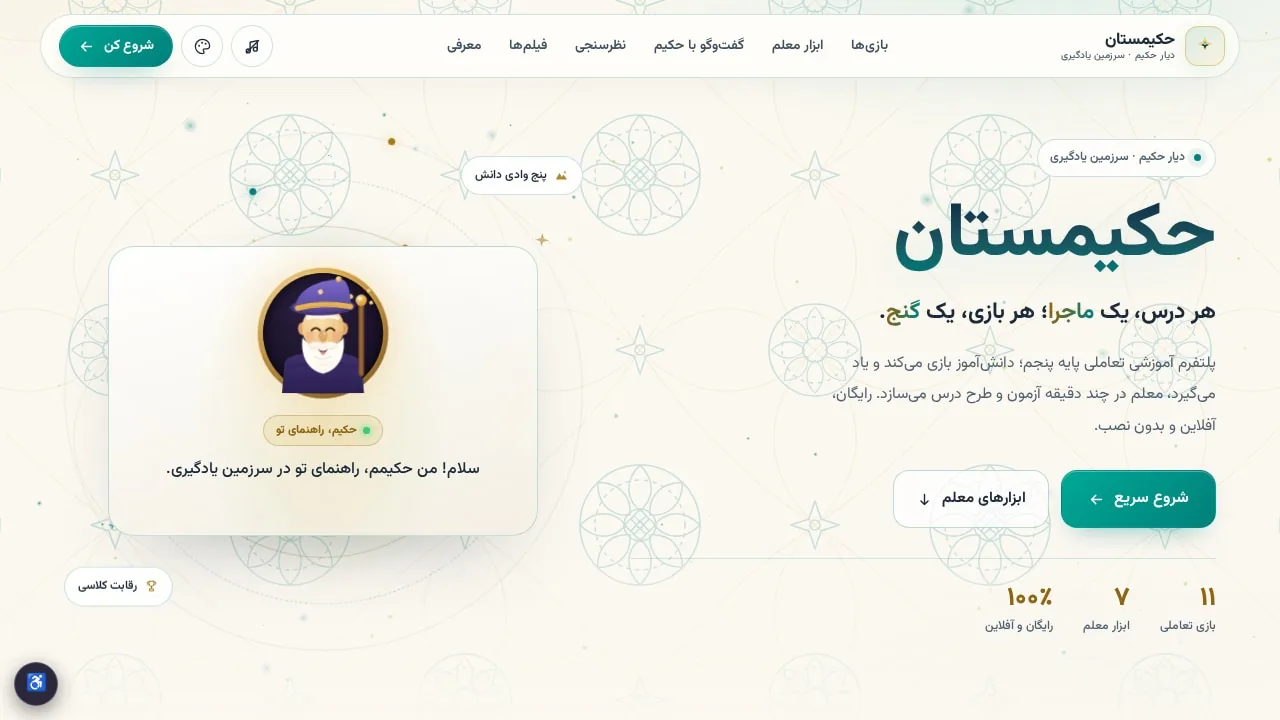
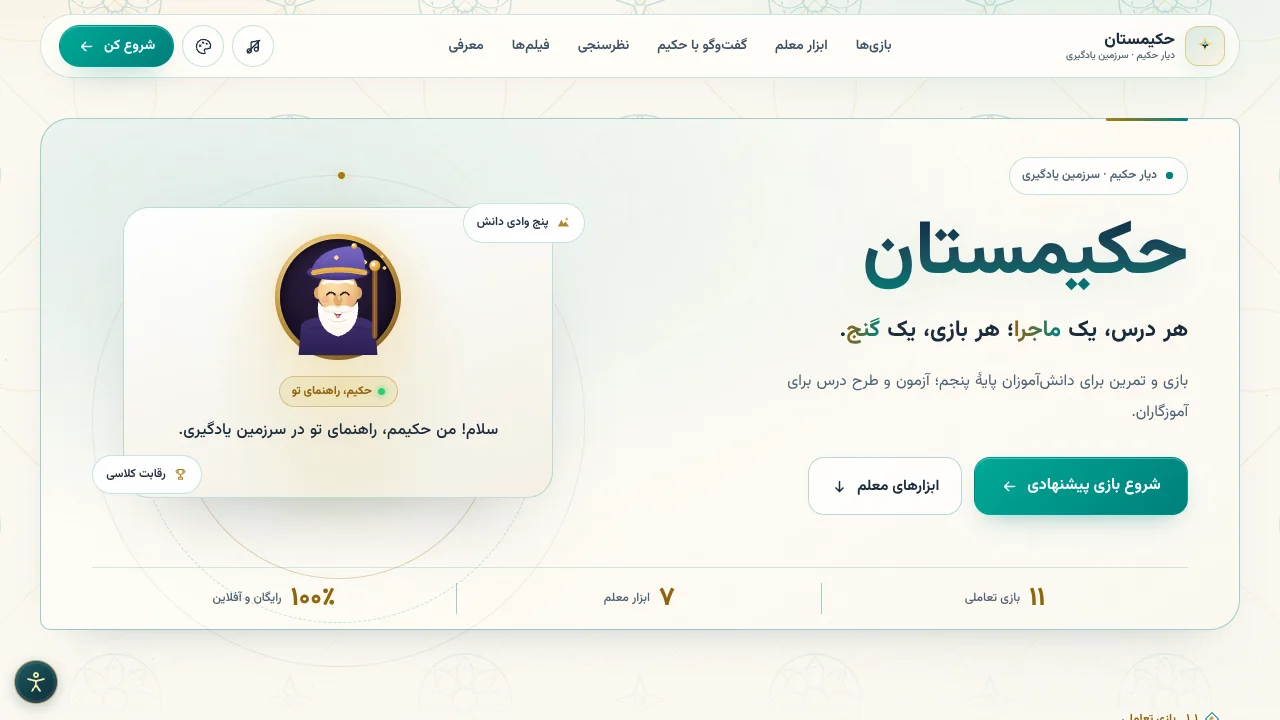
Redesign project introduction and refresh its visual tour

diff --git a/judges.html b/judges.html
@@ -418,6 +418,7 @@ body[data-theme="kashi"] .shot-empty{ border-color:rgba(0,128,128,.32); }
 <meta name="twitter:image" content="https://hakimistan.ir/screenshots/og-cover.jpg">
 <!-- hakim-meta:end -->
 <link rel="stylesheet" href="css/folio.css">
+<link rel="stylesheet" href="css/project-story.css">
 </head>
 <body data-theme="kashi">
 
@@ -492,15 +493,16 @@ body[data-theme="kashi"] .shot-empty{ border-color:rgba(0,128,128,.32); }
 <main id="main">
 
   <!-- ================= قهرمان فشرده ================= -->
-  <section class="page-hero" aria-labelledby="hero-title">
-    <div class="wrap">
-      <p class="eyebrow"><span class="pulse" aria-hidden="true"></span> برای داوران جشنواره</p>
-      <div class="hero-logo" aria-hidden="true">ح</div>
-      <p class="hk-folio">شناسنامهٔ حکیمستان</p>
-      <h1 id="hero-title">معرفی پروژه حکیمستان</h1>
-      <p class="hero-tagline">حکیمستان — <em>دیار حکیم</em>، سرزمین یادگیری</p>
+  <section class="story-cover" aria-labelledby="hero-title">
+    <div class="cover-copy">
+      <p class="cover-kicker">پروندهٔ آموزشی · پایهٔ پنجم دبستان</p>
+      <h1 id="hero-title">معرفی تفصیلی <span>حکیمستان</span></h1>
+      <p>از یک سؤال در کلاس تا یک سرزمین بازی؛ ببینید دانشآموز کجا تمرین میکند و معلم چطور مسیر یادگیری را دنبال میکند.</p>
+      <a class="cover-action" href="#tour">دیدن محیطهای یادگیری ←</a>
     </div>
+    <figure class="cover-screen"><img src="screenshots/lobby.webp" width="1280" height="720" alt="نمای فعلی لابی حکیمستان با راهنمای حکیم" fetchpriority="high"><figcaption>نمای ۰۱ <span>لابی · نقطهٔ شروع دانشآموز</span></figcaption></figure>
   </section>
+  <nav class="story-index" aria-label="فهرست معرفی تفصیلی"><b>در این معرفی</b><a href="#origin">داستان شکلگیری</a><a href="#tour">تور تصویری</a><a href="#lessons">درسها و بازیها</a><a href="#school">مدرسهٔ ریاضی</a><a href="#technology">مشخصات فنی</a></nav>
 
   <div class="wrap-sections">
 
@@ -515,26 +517,60 @@ body[data-theme="kashi"] .shot-empty{ border-color:rgba(0,128,128,.32); }
 
   <!-- ۲. این پروژه چیه؟ -->
   <section class="hk-card reveal">
-    <h2 class="section-title">📖 این پروژه چیه؟</h2>
-    <p>«حکیمستان» یک سامانهی آموزشی تعاملی بر پایهی HTML است که شامل <strong>۱۷ بازی آموزشی</strong>، <strong>۷ ابزار</strong> (آزمونساز، دفتر معلم، کارگاه طرح درس، مبدل سؤال، پیامرسان کلاسی، پنل معلم و درسگاه) و گفتوگو با دستیار هوشمند <strong>«حکیم»</strong> است؛ همراه با بیش از <strong>۸۰ سؤال آماده</strong> و <strong>۲۷ فیلم معرفی</strong>.</p>
+    <h2 class="section-title">حکیمستان در یک نگاه</h2>
+    <p>«حکیمستان» یک سامانهی آموزشی تعاملی بر پایهی HTML است که شامل <strong>۱۷ بازی آموزشی</strong>، <strong>۷ ابزار</strong> (آزمونساز، دفتر معلم، کارگاه طرح درس، مبدل سؤال، پیامرسان کلاسی، پنل معلم و درسگاه) و گفتوگو با دستیار هوشمند <strong>«حکیم»</strong> است؛ همراه با بیش از <strong>۸۰ سؤال آماده</strong> و <strong>۱۶ فیلم منتشرشده</strong>.</p>
     <p>این سامانه برای پایه پنجم ابتدایی طراحی شده و هدفش این است که مفاهیم درسی از طریق بازی، یادگیری فعال و بازخورد فوری به دانشآموز منتقل شود.</p>
     <p>تمام محتوا با HTML، CSS و JavaScript خالص ساخته شده و بهصورت PWA روی هر مرورگر و هر دستگاهی (موبایل، تبلت، رایانه) بدون نیاز به نصب اجرا میشود.</p>
     <p>همهٔ صفحههای اصلی — لابی، فیلمها و همین صفحهٔ معرفی — روی یک <strong>هویت بصری واحد</strong> به نام «کاشی» (کرم روشن، فیروزه و طلا، با نقش اسلیمی) ساخته شدهاند و تم انتخابی کاربر (<strong>کاشی، اقیانوس یا صبح فیروزه</strong>) بهصورت مشترک در همهٔ صفحهها باقی میماند.</p>
 
-    <!-- اسکرینشات لابی -->
-    <figure class="shot">
-      <picture>
-        <source srcset="screenshots/lobby.webp" type="image/webp">
-        <img src="screenshots/lobby.jpg" alt="نمای لابی حکیمستان در تم کاشی — حکیم در قهرمان صفحه و کارتهای بازیها"
-             width="1280" height="720" loading="lazy" decoding="async"
-             onerror="var f=this.closest('figure');if(f)f.classList.add('shot-empty');this.remove();">
-      </picture>
-      <figcaption>لابی حکیمستان — صفحهی اصلی سامانه</figcaption>
-    </figure>
+  </section>
+
+  <section id="tour" class="hk-card reveal">
+    <h2 class="section-title">تور تصویری حکیمستان</h2>
+    <p>از تماشای یک معرفی کوتاه شروع کنید یا مستقیم وارد یکی از محیطهای یادگیری شوید.</p>
+    <div class="gallery">
+      <figure class="shot cinema-shot">
+        <picture>
+          <source srcset="screenshots/videos-page.webp" type="image/webp">
+          <img src="screenshots/videos-page.jpg" alt="سرصفحهٔ خانهٔ فیلم حکیمستان و مسیرهای تماشای فیلم"
+               width="1280" height="720" loading="lazy" decoding="async"
+               onerror="var f=this.closest('figure');if(f)f.classList.add('shot-empty');this.remove();">
+        </picture>
+        <figcaption><a href="videos.html">خانهٔ فیلم ←</a> · ۹ معرفی بازی و ۷ معرفی ابزار</figcaption>
+      </figure>
+      <figure class="shot school-shot"><img src="screenshots/school.webp" alt="صفحهٔ ورودی مدرسهٔ ریاضی پایهٔ پنجم" width="1280" height="720" loading="lazy" decoding="async"><figcaption><a href="math-learning.html">مدرسهٔ ریاضی ←</a> · هفت بازی پایهٔ پنجم</figcaption></figure>
+      <figure class="shot">
+        <picture>
+          <source srcset="screenshots/mancheh.webp" type="image/webp">
+          <img src="screenshots/mancheh.jpg" alt="نمای بازی منچِ دانش آنلاین روی صفحهٔ بازی"
+               width="1280" height="720" loading="lazy" decoding="async"
+               onerror="var f=this.closest('figure');if(f)f.classList.add('shot-empty');this.remove();">
+        </picture>
+        <figcaption>منچِ دانش آنلاین</figcaption>
+      </figure>
+      <figure class="shot">
+        <picture>
+          <source srcset="screenshots/lab.webp" type="image/webp">
+          <img src="screenshots/lab.jpg" alt="نمای آزمایشگاه دوبعدی علوم با ابزارهای آزمایش"
+               width="1280" height="720" loading="lazy" decoding="async"
+               onerror="var f=this.closest('figure');if(f)f.classList.add('shot-empty');this.remove();">
+        </picture>
+        <figcaption>آزمایشگاه ۲بعدی</figcaption>
+      </figure>
+      <figure class="shot">
+        <picture>
+          <source srcset="screenshots/teacher-panel.webp" type="image/webp">
+          <img src="screenshots/teacher-panel.jpg" alt="نمای پنل معلم با آمار کلاس و فهرست دانشآموزان"
+               width="1280" height="720" loading="lazy" decoding="async"
+               onerror="var f=this.closest('figure');if(f)f.classList.add('shot-empty');this.remove();">
+        </picture>
+        <figcaption>پنل معلم</figcaption>
+      </figure>
+    </div>
   </section>
 
   <!-- ۳. مسیر شکلگیری -->
-  <section class="hk-card reveal">
+  <section id="origin" class="hk-card reveal">
     <h2 class="section-title">📜 مسیر شکلگیری</h2>
     <div class="timeline">
       <div class="tl-item">
@@ -551,8 +587,8 @@ body[data-theme="kashi"] .shot-empty{ border-color:rgba(0,128,128,.32); }
   </section>
 
   <!-- ۴. برای کدوم درسها؟ -->
-  <section class="hk-card reveal">
-    <h2 class="section-title">📚 برای کدوم درسها؟</h2>
+  <section id="lessons" class="hk-card reveal">
+    <h2 class="section-title">📚 راهنمای درسها و بازیها</h2>
 
     <h3 class="sub-heading">بازیها</h3>
     <div class="table-wrap" tabindex="0">
@@ -715,7 +751,7 @@ body[data-theme="kashi"] .shot-empty{ border-color:rgba(0,128,128,.32); }
   </section>
 
   <!-- ۴ب. مدرسه ریاضی -->
-  <section class="hk-card reveal">
+  <section id="school" class="hk-card reveal">
     <h2 class="section-title">🧮 مدرسه ریاضی</h2>
     <p>«<a href="math-learning.html">مدرسه ریاضی</a>» بخش ویژهی ریاضی حکیمستان است؛ مجموعهای در حال رشد از بازیهای آموزشی ریاضی پایهٔ پنجم. اکنون <strong>هفت بازی</strong> دارد: از تقسیم و ساعت تا الگوهای هندسی و عددی، کسرها با چهار عمل، نسبت و درصد، تقارن و چندضلعی، و عددهای اعشاری. هر بازی یک کارت اختصاصی در صفحهٔ مدرسه دارد.</p>
     <p><strong>هفت بازی فعلی:</strong></p>
@@ -766,48 +802,7 @@ body[data-theme="kashi"] .shot-empty{ border-color:rgba(0,128,128,.32); }
   </section>
 
   <!-- ۶ب. نماها -->
-  <section class="hk-card reveal">
-    <h2 class="section-title">🖼 نماها</h2>
-    <p>نمایی از محیط حکیمستان:</p>
-    <div class="gallery">
-      <figure class="shot">
-        <picture>
-          <source srcset="screenshots/videos-page.webp" type="image/webp">
-          <img src="screenshots/videos-page.jpg" alt="نمای صفحهٔ فیلمهای حکیمستان با کارتهای ویدیویی شیشهای در تم کاشی"
-               width="1280" height="720" loading="lazy" decoding="async"
-               onerror="var f=this.closest('figure');if(f)f.classList.add('shot-empty');this.remove();">
-        </picture>
-        <figcaption>صفحهٔ فیلمها — ۲۷ ویدیوی معرفی بازیها و ابزارها</figcaption>
-      </figure>
-      <figure class="shot">
-        <picture>
-          <source srcset="screenshots/mancheh.webp" type="image/webp">
-          <img src="screenshots/mancheh.jpg" alt="نمای بازی منچِ دانش آنلاین روی صفحهٔ بازی"
-               width="1280" height="720" loading="lazy" decoding="async"
-               onerror="var f=this.closest('figure');if(f)f.classList.add('shot-empty');this.remove();">
-        </picture>
-        <figcaption>منچِ دانش آنلاین</figcaption>
-      </figure>
-      <figure class="shot">
-        <picture>
-          <source srcset="screenshots/lab.webp" type="image/webp">
-          <img src="screenshots/lab.jpg" alt="نمای آزمایشگاه دوبعدی علوم با ابزارهای آزمایش"
-               width="1280" height="720" loading="lazy" decoding="async"
-               onerror="var f=this.closest('figure');if(f)f.classList.add('shot-empty');this.remove();">
-        </picture>
-        <figcaption>آزمایشگاه ۲بعدی</figcaption>
-      </figure>
-      <figure class="shot">
-        <picture>
-          <source srcset="screenshots/teacher-panel.webp" type="image/webp">
-          <img src="screenshots/teacher-panel.jpg" alt="نمای پنل معلم با آمار کلاس و فهرست دانشآموزان"
-               width="1280" height="720" loading="lazy" decoding="async"
-               onerror="var f=this.closest('figure');if(f)f.classList.add('shot-empty');this.remove();">
-        </picture>
-        <figcaption>پنل معلم</figcaption>
-      </figure>
-    </div>
-  </section>
+
 
   <!-- ۷. پیامرسان کلاسی حکیمستان -->
   <section class="hk-card reveal">
@@ -850,19 +845,19 @@ body[data-theme="kashi"] .shot-empty{ border-color:rgba(0,128,128,.32); }
   </section>
 
   <!-- ۱۰. ویژگیهای فنی -->
-  <section class="hk-card reveal">
+  <section id="technology" class="hk-card reveal">
     <h2 class="section-title">🛠 ویژگیهای فنی</h2>
     <div class="tech-grid">
       <div class="tech-item"><span class="num">۱۷</span><span class="label">بازی تعاملی</span></div>
       <div class="tech-item"><span class="num">۷</span><span class="label">ابزار معلم و دانشآموز</span></div>
       <div class="tech-item"><span class="num">۳</span><span class="label">تم رنگی هماهنگ در همهٔ صفحهها</span></div>
       <div class="tech-item"><span class="num">۸۰+</span><span class="label">سؤال آماده</span></div>
-      <div class="tech-item"><span class="num">۲۷</span><span class="label">فیلم معرفی بازیها و ابزارها</span></div>
+      <div class="tech-item"><span class="num">۱۶</span><span class="label">فیلم منتشرشده · ۱۱ عنوان علوم در برنامه</span></div>
       <div class="tech-item"><span class="num">PWA</span><span class="label">قابل نصب بدون فروشگاه</span></div>
       <div class="tech-item"><span class="num">AI</span><span class="label">گفتوگو با حکیم</span></div>
       <div class="tech-item"><span class="num">🎨</span><span class="label">هویت بصری یکپارچه — کاشی</span></div>
       <div class="tech-item"><span class="num">HTML</span><span class="label">پایهی فنی — بدون فریمورک</span></div>
-      <div class="tech-item"><span class="num">a11y</span><span class="label">دسترسپذیری WCAG 2.2 AA</span></div>
+      <div class="tech-item"><span class="num">a11y</span><span class="label">تنظیمات دسترسپذیری</span></div>
       <div class="tech-item"><span class="num">📱</span><span class="label">موبایلپسند و واکنشگرا</span></div>
       <div class="tech-item"><span class="num">👨🏫</span><span class="label">طراحیشده توسط معلم پایه پنجم</span></div>
     </div>

diff --git a/css/project-story.css b/css/project-story.css
@@ -1,0 +1,9 @@
+/* Editorial cover and photographic tour, scoped to the project dossier. */
+.story-cover,.story-index,.wrap-sections{width:min(calc(100% - 32px),1100px);margin-inline:auto;box-sizing:border-box}
+.story-cover{isolation:isolate;position:relative;overflow:hidden;margin-block:32px 12px;border-radius:30px;background:radial-gradient(ellipse at 4% 0%,#296965,transparent 58%),#123c3e;color:#fffbef;display:grid;grid-template-columns:.9fr 1.1fr;align-items:center;gap:clamp(24px,4vw,64px);padding:clamp(24px,5vw,64px);box-shadow:0 16px 44px #143c3822}
+.story-cover:before{content:"";position:absolute;z-index:-1;inset:0;background:repeating-linear-gradient(45deg,transparent 0 29px,#ffffff09 29px 30px),repeating-linear-gradient(-45deg,transparent 0 29px,#ffffff09 29px 30px);mask-image:linear-gradient(100deg,#000,transparent)}
+.cover-kicker{color:#f7d38d;font-size:.82rem;font-weight:800}.cover-copy h1{font-size:clamp(2rem,4vw,3.8rem);line-height:1.3;margin:.35em 0}.cover-copy h1 span{display:block;color:#ffe1a2}.cover-copy>p:not(.cover-kicker){line-height:2;color:#f4f6ec}.cover-action{display:inline-block;background:#ffdf9e;color:#253225;border-radius:12px;padding:10px 18px;margin-top:8px;text-decoration:none;font-weight:800}.cover-screen{margin:0;min-width:0;border:1px solid #dbcd98;border-radius:15px;overflow:hidden;background:#fff6dd;color:#27403c;box-shadow:-8px 9px 0 #091f2060}.cover-screen img{display:block;width:100%;height:auto}.cover-screen figcaption{display:flex;gap:12px;padding:9px 15px;font-size:.8rem;font-weight:800}.cover-screen span{border-inline-start:1px solid #aa996e;padding-inline-start:12px}
+.story-index{display:flex;align-items:center;flex-wrap:wrap;gap:4px 10px;padding:12px 18px;border-block:1px solid var(--hairline);margin-bottom:24px}.story-index b{color:var(--ink);margin-inline-end:12px}.story-index a,#tour figcaption a{color:var(--teal);font-weight:700;text-underline-offset:4px}.story-index a{padding:6px;font-size:.88rem}
+.wrap-sections{max-width:none;padding:0 0 40px;display:grid;grid-template-columns:repeat(2,minmax(0,1fr));gap:18px}.wrap-sections>section{min-width:0;grid-column:1/-1;scroll-margin-top:95px}.wrap-sections>.highlight-card{grid-column:auto}.wrap-sections .section-title{font-size:clamp(1.14rem,2vw,1.55rem);border-inline-start:4px solid var(--teal);padding-inline-start:12px}.wrap-sections .gallery{display:grid;grid-template-columns:repeat(6,minmax(0,1fr));gap:15px}.gallery .shot{grid-column:span 2;margin:0;border:1px solid var(--hairline);background:var(--card);border-radius:16px;overflow:hidden}.gallery .cinema-shot,.gallery .school-shot{grid-column:span 3}.gallery .shot img{width:100%;height:auto;display:block;border:0;border-radius:0}.gallery figcaption{padding:8px 12px;margin:0}.wrap-sections .designer-card{padding-block:14px}
+@media(max-width:720px){.story-cover{grid-template-columns:1fr;gap:20px;margin-top:18px}.cover-copy h1 span{display:inline}.story-index{gap:2px 8px}.wrap-sections{display:flex}.wrap-sections .gallery{grid-template-columns:repeat(2,minmax(0,1fr))}.gallery .shot{grid-column:auto}.gallery .cinema-shot{grid-column:1/-1}}
+@media(max-width:440px){.story-cover,.story-index,.wrap-sections{width:calc(100% - 24px)}.wrap-sections .gallery{grid-template-columns:1fr}.story-index b{flex-basis:100%}}
